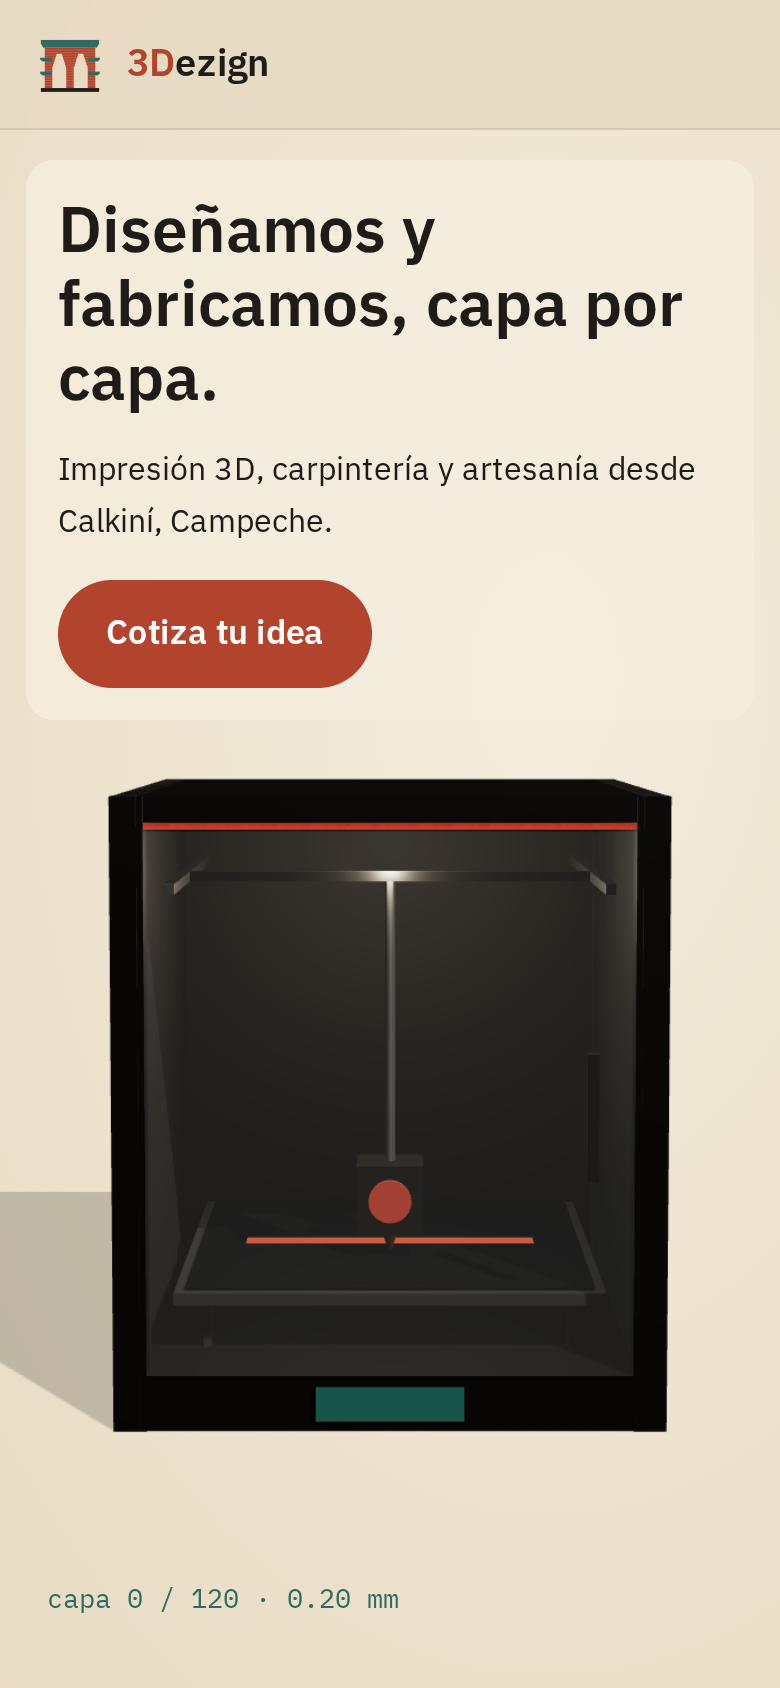
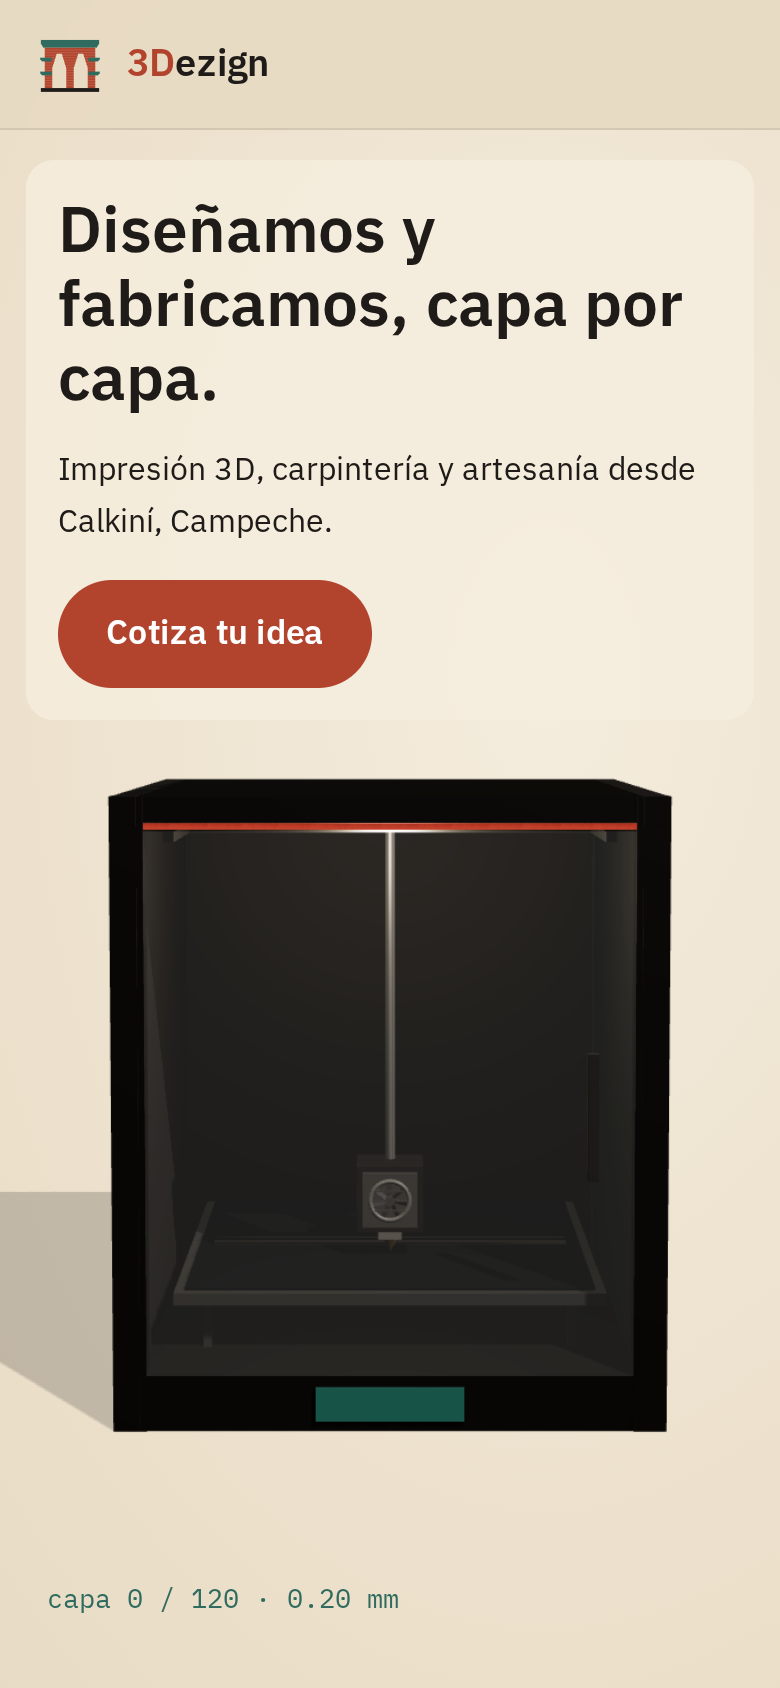
Arco con colores del isotipo, cabezal realista, arco +23%, fix reduced-motion

diff --git a/src/scene.js b/src/scene.js
@@ -40,7 +40,7 @@ export function createScene(canvas, { reduced }) {
   glass.position.set(0, H / 2 + 0.04, D / 2 - 0.02); printer.add(glass);
   box(0.05, 0.6, 0.06, metal, W / 2 - 0.35, H / 2, D / 2 + 0.02); // manija
   // luz interior
-  const inner = new THREE.PointLight(0xfff1dc, 3, 4, 1.5); inner.position.set(0, H - 0.4, 0.3); printer.add(inner);
+  const inner = new THREE.PointLight(0xfff1dc, 2.5, 4, 1.5); inner.position.set(0, H - 0.3, 0.9); printer.add(inner);
 
   // cama
   const bedY = 0.55;
@@ -49,32 +49,44 @@ export function createScene(canvas, { reduced }) {
   for (const sx of [-1, 1]) for (const sz of [-1, 1]) box(0.04, bedY - 0.25, 0.04, metal, sx * 0.9, (bedY + 0.25) / 2, sz * 0.8);
 
   // gantry core-XY: barras Y laterales y barra X móvil, cabezal
-  const railY = H - 0.45;
+  const railY = H - 0.2;
   for (const sx of [-1, 1]) box(0.05, 0.05, D - 0.4, metal, sx * (W / 2 - 0.25), railY, 0);
   const xbar = box(W - 0.5, 0.05, 0.05, metal, 0, railY, 0);
   const head = new THREE.Group(); printer.add(head);
-  const hb = new THREE.Mesh(new THREE.BoxGeometry(0.34, 0.36, 0.3), new THREE.MeshStandardMaterial({ color: C.carbon, roughness: 0.4 })); hb.castShadow = true; head.add(hb);
-  const fan = new THREE.Mesh(new THREE.CylinderGeometry(0.11, 0.11, 0.02, 24), new THREE.MeshStandardMaterial({ color: C.terracota })); fan.rotation.x = Math.PI / 2; fan.position.z = 0.16; head.add(fan);
-  const noz = new THREE.Mesh(new THREE.ConeGeometry(0.05, 0.12, 16), new THREE.MeshStandardMaterial({ color: 0xc9a24a, metalness: 0.9, roughness: 0.25 })); noz.rotation.x = Math.PI; noz.position.y = -0.24; head.add(noz);
-  const glow = new THREE.PointLight(new THREE.Color(C.terracota), 0, 0.8); glow.position.y = -0.3; head.add(glow);
+  const grey = new THREE.MeshStandardMaterial({ color: 0x4a4542, roughness: 0.5, metalness: 0.4 });
+  const hb = new THREE.Mesh(new THREE.BoxGeometry(0.34, 0.34, 0.3), new THREE.MeshStandardMaterial({ color: C.carbon, roughness: 0.45, metalness: 0.2 })); hb.castShadow = true; head.add(hb);
+  const shroud = new THREE.Mesh(new THREE.BoxGeometry(0.28, 0.28, 0.03), grey); shroud.position.z = 0.165; head.add(shroud);
+  const ring = new THREE.Mesh(new THREE.TorusGeometry(0.1, 0.012, 8, 32), new THREE.MeshStandardMaterial({ color: 0x7a7570, metalness: 0.7, roughness: 0.35 })); ring.position.z = 0.185; head.add(ring);
+  const blades = new THREE.Group(); blades.position.z = 0.18; head.add(blades);
+  const bladeM = new THREE.MeshStandardMaterial({ color: 0x2b2725, roughness: 0.6 });
+  for (let i = 0; i < 7; i++) { const bl = new THREE.Mesh(new THREE.BoxGeometry(0.085, 0.03, 0.006), bladeM); bl.position.x = 0.045; const piv = new THREE.Group(); piv.rotation.z = i * Math.PI * 2 / 7; bl.rotation.x = 0.4; piv.add(bl); blades.add(piv); }
+  for (const gy of [-0.05, 0, 0.05]) { const bar = new THREE.Mesh(new THREE.BoxGeometry(0.2, 0.008, 0.008), grey); bar.position.set(0, gy, 0.19); head.add(bar); }
+  const hub = new THREE.Mesh(new THREE.CylinderGeometry(0.025, 0.025, 0.02, 16), grey); hub.rotation.x = Math.PI / 2; hub.position.z = 0.19; head.add(hub);
+  const heater = new THREE.Mesh(new THREE.BoxGeometry(0.12, 0.06, 0.12), new THREE.MeshStandardMaterial({ color: 0xb8b2aa, metalness: 0.8, roughness: 0.3 })); heater.position.y = -0.2; head.add(heater);
+  const noz = new THREE.Mesh(new THREE.ConeGeometry(0.04, 0.08, 16), new THREE.MeshStandardMaterial({ color: 0xc9a24a, metalness: 0.9, roughness: 0.25 })); noz.rotation.x = Math.PI; noz.position.y = -0.27; head.add(noz);
   // tubo/varilla vertical que conecta cabezal con la barra
   const stem = new THREE.Mesh(new THREE.CylinderGeometry(0.025, 0.025, 1, 8), metal); head.add(stem);
 
-  // --- Arco extruido del isotipo ---
+  // --- Arco extruido del isotipo: un mesh por path con el fill del propio SVG ---
   const data = new SVGLoader().parse(svgText);
-  const shapes = [];
-  data.paths.forEach(p => { const fill = p.userData.style.fill; if (fill && fill !== 'none') SVGLoader.createShapes(p).forEach(s => shapes.push(s)); });
-  const geo = new THREE.ExtrudeGeometry(shapes, { depth: 40, bevelEnabled: true, bevelThickness: 2, bevelSize: 1.2, bevelSegments: 2, curveSegments: 6 });
-  geo.scale(1, -1, 1); geo.computeBoundingBox();
-  const bb = geo.boundingBox; geo.translate(-(bb.min.x + bb.max.x) / 2, -bb.min.y, -(bb.min.z + bb.max.z) / 2);
-  const s = 1.55 / (bb.max.x - bb.min.x); geo.scale(s, s, s); geo.computeVertexNormals(); geo.computeBoundingBox();
-  const archH = geo.boundingBox.max.y, archW = geo.boundingBox.max.x;
+  const parts = [];
+  data.paths.forEach(p => { const fill = p.userData.style.fill; if (fill && fill !== 'none') parts.push({ fill, shapes: SVGLoader.createShapes(p) }); });
+  const shapes = parts.flatMap(p => p.shapes);
+  const opts = { depth: 40, bevelEnabled: true, bevelThickness: 2, bevelSize: 1.0, bevelSegments: 2, curveSegments: 6 };
+  const geos = parts.map(p => { const g = new THREE.ExtrudeGeometry(p.shapes, opts); g.scale(1, -1, 1); return g; });
+  const bb = new THREE.Box3(); geos.forEach(g => { g.computeBoundingBox(); bb.union(g.boundingBox); });
+  const s = 1.9 / (bb.max.x - bb.min.x); // ~23 % más grande que antes (1.55)
+  const archH = (bb.max.y - bb.min.y) * s, archW = (bb.max.x - bb.min.x) * s / 2;
   const clip = new THREE.Plane(new THREE.Vector3(0, -1, 0), 0);
-  const filament = new THREE.MeshStandardMaterial({ color: C.terracota, roughness: 0.55, metalness: 0.05, clippingPlanes: [clip], side: THREE.DoubleSide });
-  const arch = new THREE.Mesh(geo, filament); arch.castShadow = true;
-  const archGroup = new THREE.Group(); archGroup.position.set(0, bedY + 0.046, 0); archGroup.add(arch); printer.add(archGroup);
+  const archGroup = new THREE.Group(); archGroup.position.set(0, bedY + 0.046, 0); printer.add(archGroup);
+  const arch = new THREE.Group(); archGroup.add(arch);
+  geos.forEach((g, i) => {
+    g.translate(-(bb.min.x + bb.max.x) / 2, -bb.min.y, -(bb.min.z + bb.max.z) / 2); g.scale(s, s, s); g.computeVertexNormals();
+    const m = new THREE.Mesh(g, new THREE.MeshStandardMaterial({ color: new THREE.Color(parts[i].fill), roughness: 0.55, metalness: 0.05, clippingPlanes: [clip], side: THREE.DoubleSide }));
+    m.castShadow = true; arch.add(m);
+  });
   // capa "caliente" en el borde de impresión
-  const hot = new THREE.Mesh(new THREE.PlaneGeometry(archW * 2.2, 0.62 * s * 40 + 0.1), new THREE.MeshBasicMaterial({ color: 0xffb08a, transparent: true, opacity: 0, depthWrite: false }));
+  const hot = new THREE.Mesh(new THREE.PlaneGeometry(archW * 2.2, 1), new THREE.MeshBasicMaterial({ color: 0xffb08a, transparent: true, opacity: 0, depthWrite: false }));
   hot.rotation.x = -Math.PI / 2; printer.add(hot);
   const groundY = 0;
   const floor = new THREE.Mesh(new THREE.CircleGeometry(6, 48), new THREE.ShadowMaterial({ opacity: 0.18 })); floor.rotation.x = -Math.PI / 2; floor.receiveShadow = true; scene.add(floor);
@@ -115,11 +127,11 @@ export function createScene(canvas, { reduced }) {
     const tx = done ? 0 : xs[idx], tz = done ? 0 : Math.cos(phase * 0.5) * 0.25;
     head.position.x += (tx - head.position.x) * Math.min(1, dt * 14);
     head.position.z += (tz - head.position.z) * Math.min(1, dt * 14);
-    const targetY = done ? archH + 0.8 + archGroup.position.y : archGroup.position.y + hNow + 0.3;
+    const targetY = done ? Math.min(railY - 0.25, archGroup.position.y + archH + 0.45) : archGroup.position.y + hNow + 0.31;
     head.position.y += (targetY - head.position.y) * Math.min(1, dt * 12);
     stem.scale.y = Math.max(0.01, railY - head.position.y - 0.18); stem.position.y = 0.18 + stem.scale.y / 2;
     xbar.position.z = head.position.z;
-    glow.intensity = printing ? 2.5 : 0;
+    if (!reduced) blades.rotation.z += dt * 18;
     hot.position.set(0, archGroup.position.y + hNow, 0); hot.material.opacity = printing ? 0.35 : 0; hot.visible = false;
     // al final gira suave
     if (done && !reduced) spin += dt * 0.35; else if (!done) spin *= 0.9;

diff --git a/src/main.js b/src/main.js
@@ -71,7 +71,7 @@ const final = document.querySelector('.hero-final');
 const copy = document.querySelector('.hero-copy');
 
 if (reduced) {
-  scene.setProgress(1); capa.textContent = 120; final.style.opacity = 1;
+  scene.setProgress(1); capa.textContent = 120; // el texto de cierre no se muestra: el hero ya ocupa ese espacio
 } else {
   const lenis = new Lenis();
   lenis.on('scroll', ScrollTrigger.update);
